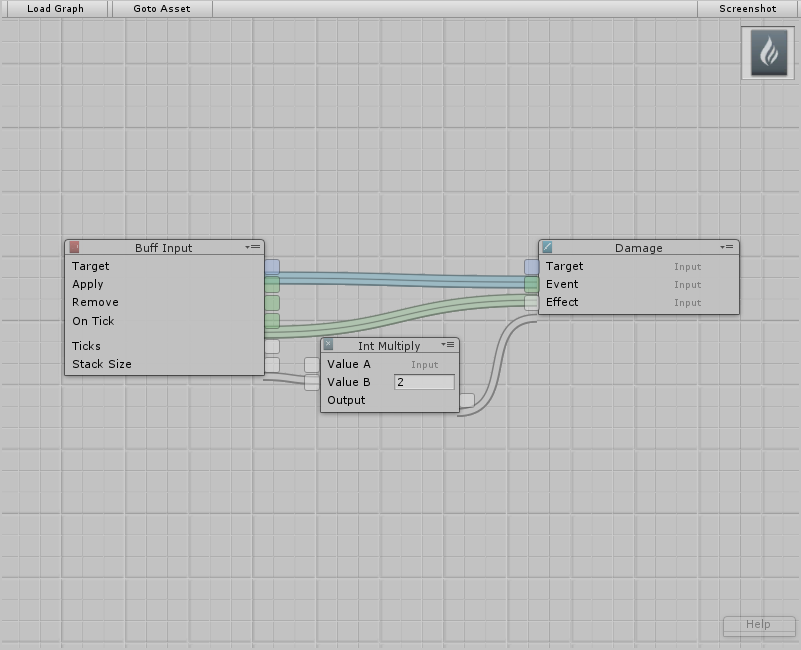
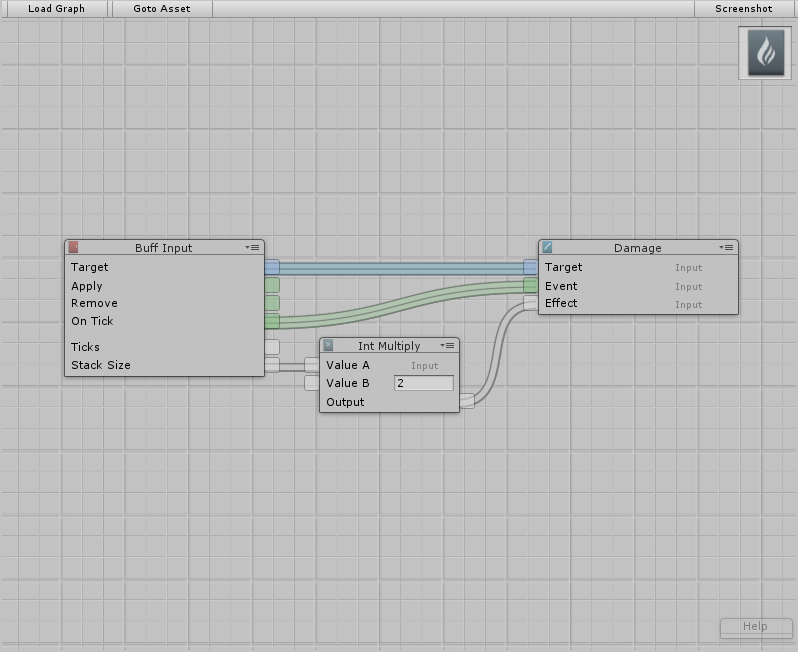
VFX Integrations with the sunfire cape and a bleeding debuff. Updated Screenshots.

diff --git a/RPGCore/Assets/RPGCore/Scripts/Behaviour/Editor/BehaviourWindow.cs b/RPGCore/Assets/RPGCore/Scripts/Behaviour/Editor/BehaviourWindow.cs
@@ -44,6 +44,8 @@ namespace RPGCore.Behaviour.Editor
 		private RenderTexture screenshot_RenderTexture;
 		private RenderTexture screenshot_OldTexture;
 
+		private int controlID;
+
 		[MenuItem ("Window/Behaviour")]
 		private static void ShowEditor ()
 		{
@@ -75,30 +77,6 @@ namespace RPGCore.Behaviour.Editor
 			ResetView ();
 
 			Repaint ();
-		}
-
-		public void ResetView ()
-		{
-			if (targetGraph.Nodes.Count == 0)
-			{
-				dragging_Position = Vector2.zero;
-				return;
-			}
-
-			Rect bounds = new Rect (targetGraph.Nodes[0].Position.x, targetGraph.Nodes[0].Position.y, 0, 0);
-
-			for (int i = 0; i < targetGraph.Nodes.Count; i++)
-			{
-				var node = targetGraph.Nodes[i];
-				Vector2 position = targetGraph.Nodes[i].Position;
-				bounds.xMin = Mathf.Min (bounds.xMin, position.x);
-				bounds.xMax = Mathf.Max (bounds.xMax, position.x + node.GetDiamentions().x);
-				
-				bounds.yMin = Mathf.Min (bounds.yMin, position.y);
-				bounds.yMax = Mathf.Max (bounds.yMax, position.y + node.GetDiamentions ().y);
-			}
-
-			dragging_Position = new Vector2(screenRect.width * 0.5f, screenRect.height * 0.5f) - Vector2Int.RoundToInt (bounds.center);
 		}
 
 		public void CloseGraph ()
@@ -260,6 +238,8 @@ namespace RPGCore.Behaviour.Editor
 				currentEvent.Use ();
 			}
 
+			HandleDragAndDrop (screenRect);
+
 			DrawBackground (screenRect, dragging_Position);
 
 			if (targetGraph == null)
@@ -277,24 +257,9 @@ namespace RPGCore.Behaviour.Editor
 
 			DrawHelp ();
 
-			HandleDragAndDrop (screenRect);
-
 			HandleInput ();
 
-			if (targetGraph != null)
-			{
-				float padding = 1;
-				Rect topRight = new Rect (screenRect.xMax - TopRight_Icon - 8, screenRect.y + 8, TopRight_Icon, TopRight_Icon);
-				Rect iconRect = new Rect (topRight.x + padding, topRight.y + padding, topRight.width - (padding * 2), topRight.height - (padding * 2));
-
-				Texture graphIcon = AssetPreview.GetAssetPreview (targetGraph);
-				if (graphIcon == null)
-					graphIcon = AssetPreview.GetMiniThumbnail (targetGraph);
-
-				GUI.Box (topRight, "", EditorStyles.textArea);
-				GUI.DrawTexture (iconRect, graphIcon);
-			}
-
+			DrawOverlay ();
 			DrawTopBar ();
 
 			if (screenshot_TakeScreenshot && currentEvent.type == EventType.Repaint)
@@ -326,7 +291,7 @@ namespace RPGCore.Behaviour.Editor
 
 		private void AddNodeCallback (object type, Vector2 mousePosition)
 		{
-			BehaviourNode node = (BehaviourNode)AddAction ((Type)type);
+			BehaviourNode node = (BehaviourNode)AddNode ((Type)type);
 
 			node.Position = (mousePosition - dragging_Position) - (node.GetDiamentions () * 0.5f);
 
@@ -340,7 +305,7 @@ namespace RPGCore.Behaviour.Editor
 
 		private void DeleteNodeCallback ()
 		{
-			DeleteAction (rightClickedNode);
+			DeleteNode (rightClickedNode);
 		}
 
 		private void PingSourceCallback ()
@@ -356,7 +321,7 @@ namespace RPGCore.Behaviour.Editor
 
 		private void DuplicateNode (BehaviourNode original)
 		{
-			BehaviourNode node = (BehaviourNode)DuplicateAction (original);
+			BehaviourNode node = (BehaviourNode)DuplicateNode ((ScriptableObject)original);
 
 			Vector2 diamentions = rightClickedNode.GetDiamentions ();
 			node.Position += new Vector2 (diamentions.x * 0.25f, diamentions.y * 0.5f);
@@ -522,7 +487,7 @@ namespace RPGCore.Behaviour.Editor
 				else if (currentEvent.keyCode == KeyCode.Delete)
 				{
 					if (selectedWindow != -1)
-						DeleteAction (targetGraph.Nodes[selectedWindow]);
+						DeleteNode (targetGraph.Nodes[selectedWindow]);
 				}
 			}
 			else if (currentEvent.type == EventType.MouseDrag && dragging_IsDragging)
@@ -857,7 +822,7 @@ namespace RPGCore.Behaviour.Editor
 			{
 				if (!IsValidImport (DragAndDrop.objectReferences))
 				{
-					DragAndDrop.visualMode = DragAndDropVisualMode.Rejected;
+					// DragAndDrop.visualMode = DragAndDropVisualMode.Rejected;
 					return;
 				}
 
@@ -919,8 +884,6 @@ namespace RPGCore.Behaviour.Editor
 			}
 			return true;
 		}
-
-		int controlID;
 
 		private void DrawTopBar ()
 		{
@@ -1060,6 +1023,23 @@ namespace RPGCore.Behaviour.Editor
 			GUI.color = Color.white;
 		}
 
+		private void DrawOverlay ()
+		{
+			if (targetGraph != null)
+			{
+				float padding = 1;
+				Rect topRight = new Rect (screenRect.xMax - TopRight_Icon - 8, screenRect.y + 8, TopRight_Icon, TopRight_Icon);
+				Rect iconRect = new Rect (topRight.x + padding, topRight.y + padding, topRight.width - (padding * 2), topRight.height - (padding * 2));
+
+				Texture graphIcon = AssetPreview.GetAssetPreview (targetGraph);
+				if (graphIcon == null)
+					graphIcon = AssetPreview.GetMiniThumbnail (targetGraph);
+
+				GUI.Box (topRight, "", EditorStyles.textArea);
+				GUI.DrawTexture (iconRect, graphIcon);
+			}
+		}
+
 		private void DrawBackground (Rect screenRect, Vector2 viewPosition)
 		{
 			if (Event.current.type == EventType.MouseMove)
@@ -1118,22 +1098,42 @@ namespace RPGCore.Behaviour.Editor
 			GUI.DrawTextureWithTexCoords (rect, texture, new Rect (tileOffset, tileAmount), true);
 		}
 
+		private void ResetView ()
+		{
+			if (targetGraph.Nodes.Count == 0)
+			{
+				dragging_Position = Vector2.zero;
+				return;
+			}
 
+			Rect bounds = new Rect (targetGraph.Nodes[0].Position.x, targetGraph.Nodes[0].Position.y, 0, 0);
 
-		private void RenameAction (UnityEngine.Object action, string newName)
+			for (int i = 0; i < targetGraph.Nodes.Count; i++)
+			{
+				var node = targetGraph.Nodes[i];
+				Vector2 position = targetGraph.Nodes[i].Position;
+				bounds.xMin = Mathf.Min (bounds.xMin, position.x);
+				bounds.xMax = Mathf.Max (bounds.xMax, position.x + node.GetDiamentions ().x);
+
+				bounds.yMin = Mathf.Min (bounds.yMin, position.y);
+				bounds.yMax = Mathf.Max (bounds.yMax, position.y + node.GetDiamentions ().y);
+			}
+
+			dragging_Position = new Vector2 (screenRect.width * 0.5f, screenRect.height * 0.5f) - Vector2Int.RoundToInt (bounds.center);
+		}
+
+		private void RenameNode (UnityEngine.Object action, string newName)
 		{
 			action.name = newName;
-			//AssetDatabase.ImportAsset (AssetDatabase.GetAssetPath (action));
 
 			ReloadSubassets ();
 
 			EditorUtility.SetDirty (action);
 		}
 
-		private void DeleteAction (UnityEngine.Object action)
+		private void DeleteNode (UnityEngine.Object action)
 		{
 			DestroyImmediate (action, true);
-			//AssetDatabase.ImportAsset (AssetDatabase.GetAssetPath (targetGraph));
 
 			ReloadSubassets ();
 
@@ -1144,38 +1144,35 @@ namespace RPGCore.Behaviour.Editor
 		private T Duplicate<T> (T original)
 			where T : BehaviourNode
 		{
-			return (T)DuplicateAction (original);
+			return (T)DuplicateNode ((ScriptableObject)original);
 		}
 
-		private ScriptableObject DuplicateAction (ScriptableObject original)
+		private ScriptableObject DuplicateNode (ScriptableObject original)
 		{
 			ScriptableObject action = Instantiate (original) as ScriptableObject;
 			action.name = original.name;
 			action.hideFlags = HideFlags.HideInHierarchy;
 
 			AssetDatabase.AddObjectToAsset (action, targetGraph);
-			//AssetDatabase.ImportAsset (AssetDatabase.GetAssetPath (action));
 
 			ReloadSubassets ();
 
 			return action;
 		}
 
-		private T AddAction<T> ()
+		private T AddNode<T> ()
 			where T : BehaviourNode
 		{
-			return (T)AddAction (typeof (T));
+			return (T)AddNode (typeof (T));
 		}
 
-		private ScriptableObject AddAction (Type type)
+		private ScriptableObject AddNode (Type type)
 		{
 			ScriptableObject action = ScriptableObject.CreateInstance (type);
 			action.name = ObjectNames.NicifyVariableName (type.Name).Replace (" Node", "");
 			action.hideFlags = HideFlags.HideInHierarchy;
 
 			AssetDatabase.AddObjectToAsset (action, targetGraph);
-
-			//AssetDatabase.ImportAsset (AssetDatabase.GetAssetPath (action));
 
 			ReloadSubassets ();
 
@@ -1207,67 +1204,4 @@ namespace RPGCore.Behaviour.Editor
 			EditorUtility.SetDirty (targetGraph);
 		}
 	}
-
-	/*private void DrawNodes ()
-	{
-		for (int i = 0; i < targetGraph.Nodes.Count; i++)
-		{
-			BehaviourNode node = targetGraph.Nodes[i];
-
-			if (node == null)
-			{
-				targetGraph.Nodes.RemoveAt (i);
-				return;
-			}
-
-			Vector2 contentSize = node.GetDiamentions ();
-			Vector2 nodeScreenPosition = node.Position + viewPosition;
-
-			Rect nodeRect = new Rect (nodeScreenPosition.x, nodeScreenPosition.y,
-				contentSize.x, contentSize.y + 20);
-
-			if (currentEvent.type == EventType.Repaint)
-			{
-				GUI.skin.window.Draw (nodeRect, false, false, false, false);
-			}
-
-			//EditorGUI.DrawRect (nodeRect, Color.green);
-
-			DrawNode (nodeRect, node);
-		}
-	}
-
-	private void DrawNode (Rect nodeRect, BehaviourNode node)
-	{
-		Event windowEvent = currentEvent;
-
-		Rect settingsRect = new Rect (nodeRect.width - 20, 5, 20, 20);
-
-		if (GUI.Button (settingsRect, "", BehaviourGUIStyles.Instance.settingsStyle))
-		{
-			rightClickedNode = node;
-			BasicNodeMenu.ShowAsContext ();
-		}
-
-		SerializedObject serializedObject = SerializedObjectPool.Grab (node);
-
-		float originalLabelWidth = EditorGUIUtility.labelWidth;
-		EditorGUIUtility.labelWidth = nodeRect.width / 2;
-
-		node.DrawGUI (serializedObject, new Rect (nodeRect.x, nodeRect.y + 20, 
-			nodeRect.width, nodeRect.height - 22));
-
-		serializedObject.ApplyModifiedProperties ();
-
-		if (windowEvent.type == EventType.MouseDown)
-		{
-			if (windowEvent.button == 1)
-			{
-				rightClickedNode = node;
-				BasicNodeMenu.ShowAsContext ();
-			}
-		}
-
-		EditorGUIUtility.labelWidth = originalLabelWidth;
-	}*/
 }
